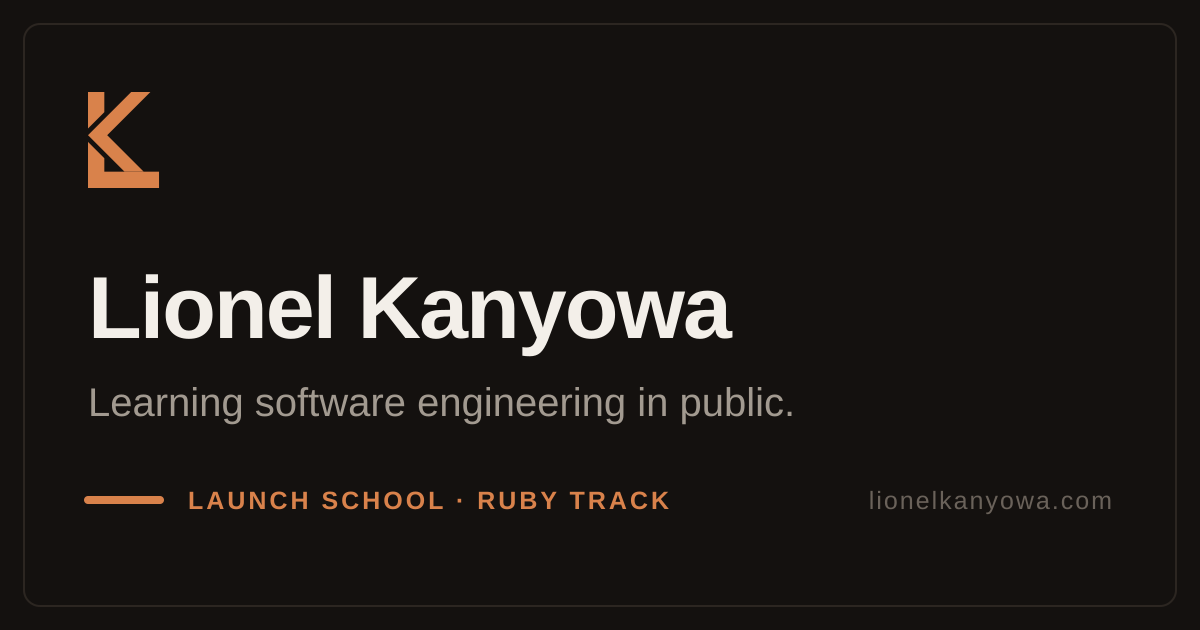
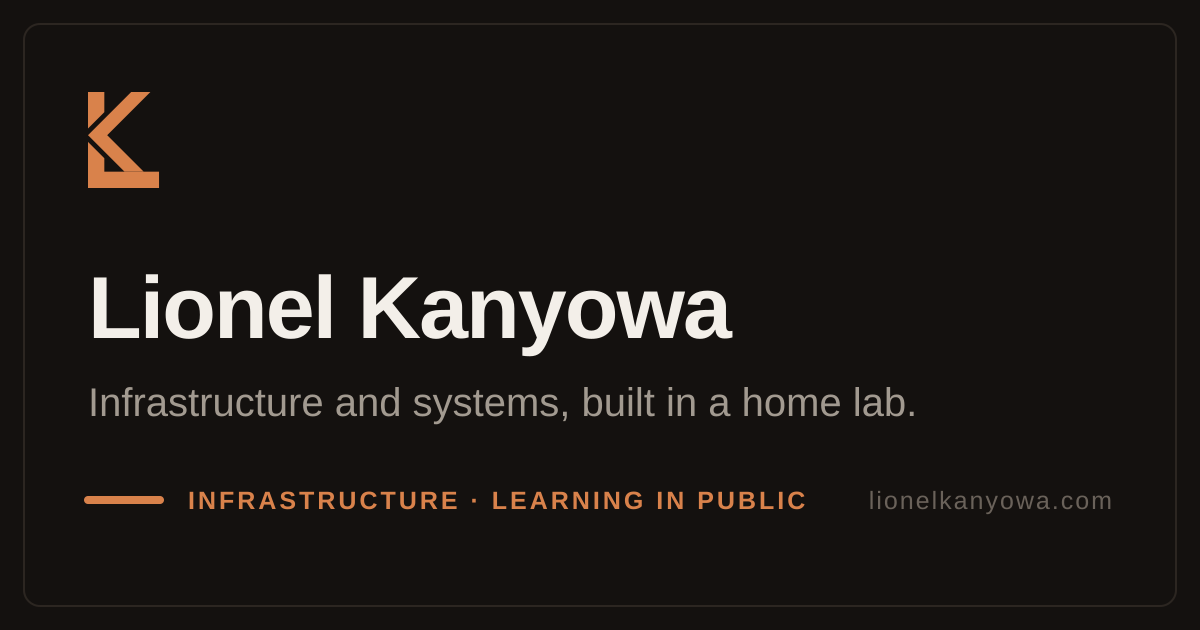
feat: rewrite site copy for the infrastructure path
Site and page descriptions, About (Systems first, Launch School in the
past tense), Projects (Phase 1 placeholders), Resources (KodeKloud, LFCS,
Launch School's Intro to Ruby and Intro to SQL as reference), Videos,
Writing, and the default social card.

Changed region(s): [[0.0617, 0.6032, 0.7708, 0.6635], [0.1542, 0.754, 0.6783, 0.8143]]

diff --git a/about.html b/about.html
@@ -2,12 +2,13 @@
 layout: default
 title: About
 permalink: /about/
-description: Network and systems administrator, mastery-based learner, home-lab tinkerer — expanding beyond infrastructure into software engineering.
+description: Network and systems administrator whose core craft is infrastructure, going deeper into Linux, containers, Kubernetes, infrastructure as code, and Azure.
 ---
 
 <section class="about-hero">
   <div class="wrap">
-    <h1 class="about-title">From systems to software</h1>
+    {% comment %}[CONFIRM] page title "Systems first": Lionel to approve before merge.{% endcomment %}
+    <h1 class="about-title">Systems first</h1>
   </div>
 </section>
 
@@ -16,9 +17,11 @@ description: Network and systems administrator, mastery-based learner, home-lab 
     <div class="prose">
       <p>I'm Lionel Kanyowa, a Network and Systems Administrator at a nonprofit in Michigan. Most days I'm responsible for the technology that keeps our organization running—from hybrid identity and endpoint management to telephony, networking, and the internal tools our distributed staff rely on. I earned a B.S. in Informatics from Andrews University, but a large part of what I use every day has been self-taught through years of building, breaking, and troubleshooting systems.</p>
 
-      <p>Lately I've been expanding into software engineering through Launch School. Its mastery-based approach fits the way I like to learn. I don't mind spending extra time on a topic if it means I truly understand it. For me, learning isn't just about knowing that something works—it's about understanding why it works.</p>
+      <p>From 2022 to 2026 I studied programming foundations at Launch School, first in Python and then in Ruby. In November 2026 I left to put my time into infrastructure, my core craft. What I kept is the habit its mastery-based approach rewarded: I don't move on from a topic until I understand why it works, not just that it works.</p>
 
       <p>That same curiosity is what led me to build a home lab. I run a private network behind an OPNsense firewall and host open-source services on Proxmox. I didn't build it for a résumé or certifications; I built it because I wanted to understand how all the pieces fit together. I enjoy seeing how systems interact, and once a technical problem catches my attention, I usually can't leave it alone until I've figured it out.</p>
+
+      <p>Now I'm going deeper into Linux, containers, Kubernetes, infrastructure as code, and Azure through KodeKloud's DevOps Engineer path, and building each step in that lab. I'm working toward DevOps, SRE, platform, and cloud infrastructure roles, and I also help small businesses run their technology.</p>
     </div>
 
     <aside class="portrait">

diff --git a/projects.md b/projects.md
@@ -2,13 +2,34 @@
 layout: default
 title: Projects
 permalink: /projects/
-description: Selected home-lab, infrastructure, and software-engineering projects.
+description: Selected home-lab and infrastructure projects, each written up as the problem, the constraints, the decisions, and what I learned.
 ---
 
 <section class="about-hero">
   <div class="wrap">
     <h1 class="about-title">What I'm building</h1>
-    <p class="about-stand">Home-lab, infrastructure, and software-engineering work. Each project will focus on the problem, the decisions, and what I learned.</p>
+    <p class="about-stand">Home-lab and infrastructure work. Each write-up will cover the problem, the constraints, the decisions and tradeoffs, and what I learned.</p>
+  </div>
+</section>
+
+<section class="block">
+  <div class="wrap">
+    <div class="sec-head">
+      <h2>Phase 1 projects</h2>
+      <p>The two projects that close out Phase 1 of the <a href="{{ '/journey/' | relative_url }}">journey</a>. Write-ups land here when the work is done.</p>
+    </div>
+    <div class="principles">
+      <div class="principle">
+        <span class="status-label">Planned · Phase 1</span>
+        <h3>Automated, tested home-lab backups</h3>
+        <p>Backups for the home lab that run on their own and are tested, so I know they restore.</p>
+      </div>
+      <div class="principle">
+        <span class="status-label">Planned · Phase 1</span>
+        <h3>One real service in Docker Compose</h3>
+        <p>A service the home lab actually relies on, run with Docker Compose.</p>
+      </div>
+    </div>
   </div>
 </section>
 
@@ -16,20 +37,20 @@ description: Selected home-lab, infrastructure, and software-engineering project
   <div class="wrap">
     <div class="sec-head">
       <h2>Current areas</h2>
-      <p>The three areas where I'm doing practical work.</p>
+      <p>Where I'm doing practical work.</p>
     </div>
     <div class="principles">
       <div class="principle">
         <h3>Home lab</h3>
-        <p>A private network behind an OPNsense firewall, with self-hosted open-source services on a Proxmox cluster. Running, and always being tinkered with. Write-ups coming to the study log.</p>
+        <p>A private network behind an OPNsense firewall, with self-hosted open-source services on a Proxmox cluster. Running, and always being tinkered with. It's where I build each step of the path.</p>
       </div>
       <div class="principle">
         <h3>Infrastructure</h3>
         <p>Systems and automation work that I can discuss without exposing private employer details. Write-ups will focus on constraints, decisions, and lessons.</p>
       </div>
       <div class="principle">
-        <h3>Software engineering</h3>
-        <p>Launch School work, small tools, and future software projects. Assessed coursework stays private; selected write-ups will appear when the work is ready.</p>
+        <h3>Small-business technology</h3>
+        <p>Helping small businesses run their technology. Write-ups will leave out client details.</p>
       </div>
     </div>
     <div class="sec-foot"><a class="btn ghost" href="https://github.com/{{ site.author.github }}" target="_blank" rel="noopener">Code on GitHub &rarr;</a></div>

diff --git a/resources.md b/resources.md
@@ -2,7 +2,7 @@
 layout: page
 title: Resources
 permalink: /resources/
-description: What I'm learning with — the courses, books, and references behind the software-engineering journey.
+description: What I'm learning with — the courses, exams, books, and references behind the infrastructure path.
 ---
 
 # Resources
@@ -10,14 +10,15 @@ description: What I'm learning with — the courses, books, and references behin
 {: .lead }
 What I'm actually learning with, kept honest and short. Not a link dump — just the things doing real work right now.
 
-## Current curriculum
+## Current path
 
-- **[Launch School](https://launchschool.com/)** — the mastery-based Core curriculum, currently the Ruby track. This is the main study path, and everything else orbits it.
+- **[KodeKloud DevOps Engineer path](https://learn.kodekloud.com/learning-paths/devops-engineer)** — the main study track, worked through in four phases. Everything else orbits it.
+- **[LFCS exam](https://training.linuxfoundation.org/certification/linux-foundation-certified-sysadmin-lfcs/)** — the Linux Foundation Certified System Administrator exam, the Phase 1 certification goal.
 
 ## Reference
 
-- **[Ruby documentation](https://ruby-doc.org/)** — the standard library, read rather than guessed at.
-- **[MDN Web Docs](https://developer.mozilla.org/)** — the reference for HTML, CSS, and JavaScript on the frontend side.
+- **[Introduction to Programming with Ruby](https://launchschool.com/books/ruby)** — Launch School's free book. Kept from my Launch School years as a reference for programming fundamentals.
+- **[Introduction to SQL](https://launchschool.com/books/sql)** — Launch School's free book on SQL and relational databases, also kept as a reference.
 
 ## Books
 

diff --git a/writing.md b/writing.md
@@ -2,13 +2,13 @@
 layout: default
 title: Writing
 permalink: /writing/
-description: Longer essays on learning deeply, the systems-to-software path, and lessons from the home lab. Published on Medium.
+description: Longer essays on infrastructure, learning deeply, and lessons from the home lab. Published on Medium.
 ---
 
 <section class="about-hero">
   <div class="wrap">
     <h1 class="about-title">Longer writing</h1>
-    <p class="about-stand">Where the study log is the day-to-day, these are the essays I take time with — learning deeply, the systems-to-software path, and lessons from the home lab. Published on Medium.</p>
+    <p class="about-stand">Where the study log is the day-to-day, these are the essays I take time with — infrastructure, learning deeply, and lessons from the home lab. Published on Medium.</p>
   </div>
 </section>
 

diff --git a/videos.md b/videos.md
@@ -2,13 +2,13 @@
 layout: default
 title: Videos
 permalink: /videos/
-description: Short videos documenting Launch School and the software-engineering journey.
+description: Short videos on what I'm learning and building: Linux, containers, infrastructure, and the home lab.
 ---
 
 <section class="about-hero">
   <div class="wrap">
     <h1 class="about-title">Videos</h1>
-    <p class="about-stand">Short videos documenting Launch School, the home lab, and the road from network and systems administration into software engineering.</p>
+    <p class="about-stand">Short videos on what I'm learning and building: Linux, containers, infrastructure, and the home lab.</p>
   </div>
 </section>
 
